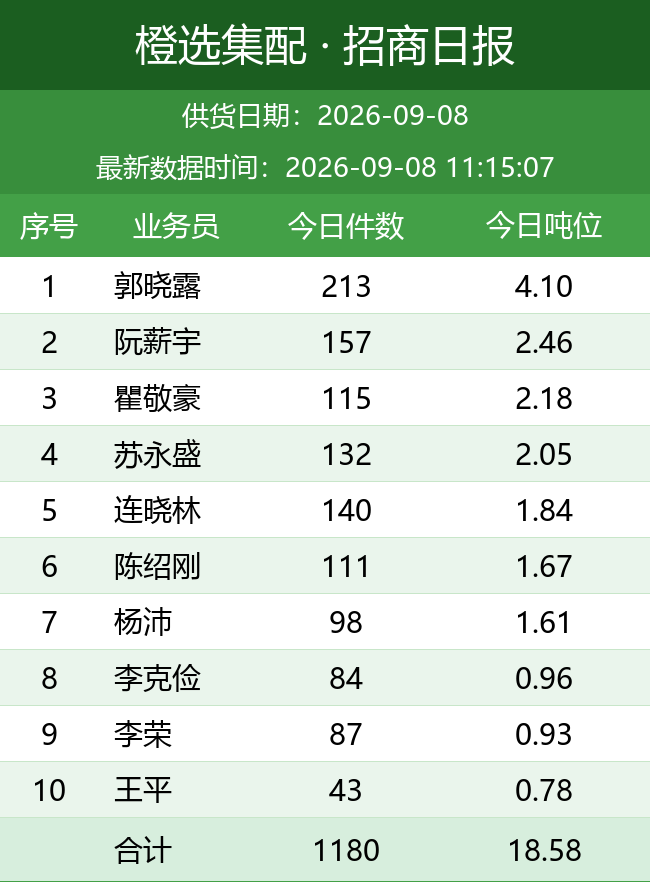
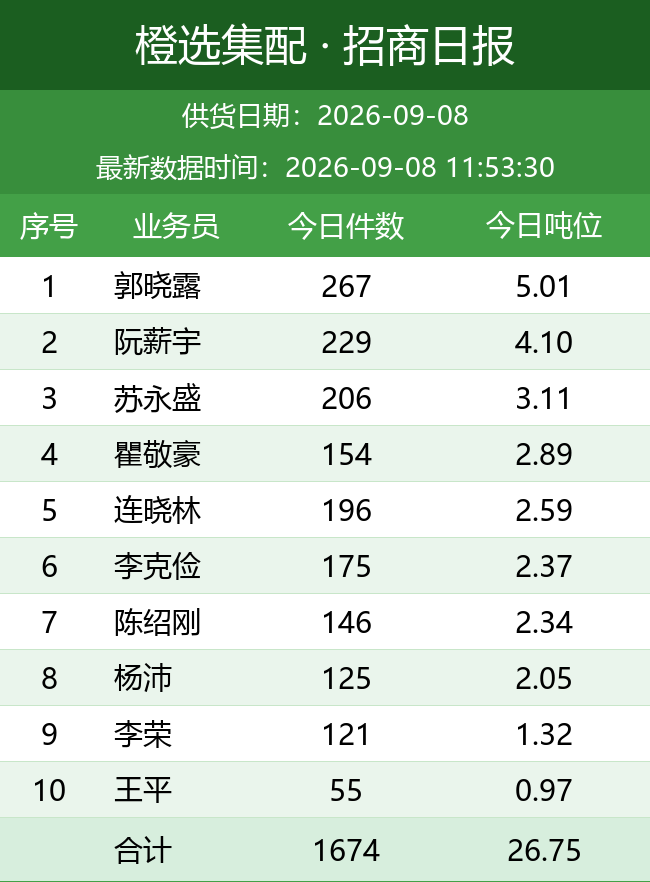
自动更新日报图片

diff --git a/index.html b/index.html
@@ -11,7 +11,7 @@ img { max-width: 100%; border: 1px solid #e5e5e5; margin-bottom: 24px; display: 
 </style>
 </head>
 <body>
-<h1>橙选集配日报图片（20260908_111512）</h1>
+<h1>橙选集配日报图片（20260908_115335）</h1>
 <img src="bd_latest.png" alt="BD 日报">
 <img src="wh_latest.png" alt="城市仓日报">
 <img src="zs_latest.png" alt="招商日报">
